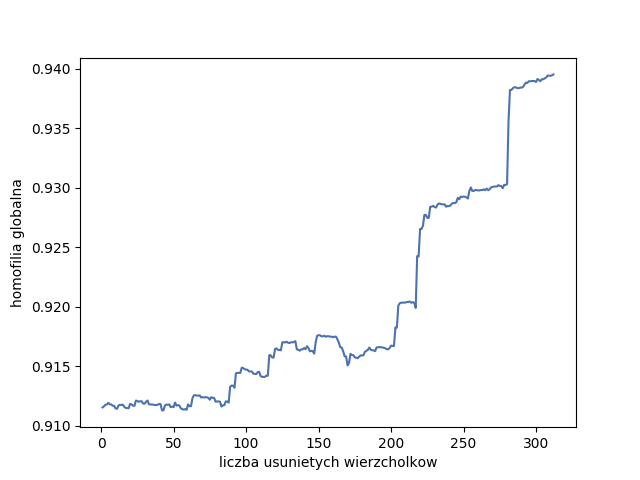
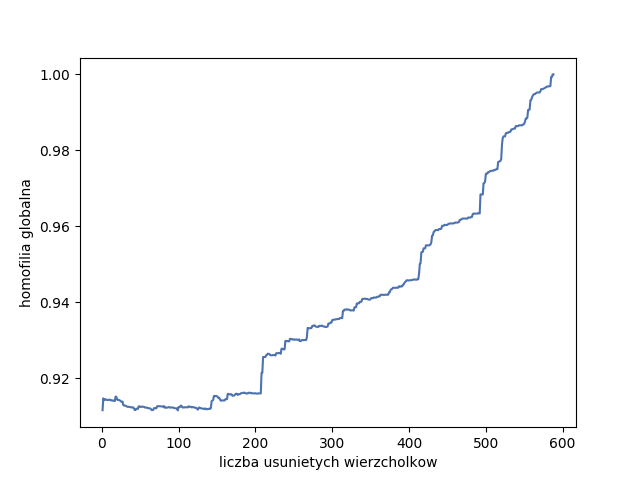
recovering

diff --git a/homophily.py b/homophily.py
@@ -68,36 +68,50 @@ class Homophily:
         utils.plot_local_homophily(homo_list_before, homo_list_after, network_name, 'add_by_ranking')
         utils.plot_global_homophily(self.global_homophilies, network_name, 'add_by_ranking')
 
-    def remove_random(self, count, clas, network_name):
+    def remove_random(self, count, manipulation_clas, clas, network_name):
         self.global_homophilies  = []
+        class_partitions = []
+        nodes_with_manipulation_clas = [node for node in self.G.nodes() if self.get_node_class(node) == manipulation_clas] 
+        class_partitions.append(len(nodes_with_manipulation_clas)/self.size)
         homo_list_before = self.local_homophily()
         nodes_with_clas = [node for node in self.G.nodes() if self.get_node_class(node) == clas]
         utils.save_to_file(homo_list_before, network_name, 'remove_random_homo_list_before')
-        for _ in range(count-1):
+        count = len(nodes_with_clas)
+        for i in range(count):
             random_node = choice(nodes_with_clas)
             try:
                 self.G.remove_node(random_node)
+                nodes_with_clas.remove(random_node)
+                class_partitions.append(len(nodes_with_manipulation_clas)/len(list(self.G.nodes())))
                 self.global_homophily()
+                print i
             except nx.NetworkXError:
                 print 'node does not exist in graph'
-            
+
         homo_list_after = self.local_homophily()
         utils.save_to_file(homo_list_after, network_name, 'remove_random_homo_list_after')
         utils.save_to_file(self.global_homophilies, network_name, 'remove_random_global_homophilies')
         utils.plot_local_homophily(homo_list_before, homo_list_after, network_name, 'remove_random')
         utils.plot_global_homophily(self.global_homophilies, network_name, 'remove_random')
+        utils.plot_all(class_partitions, self.global_homophilies, network_name, 'remove_random')
 
 
-    def remove_with_probability(self, count, clas, network_name):
+    def remove_with_probability(self, count, manipulation_clas, clas, network_name):
         self.global_homophilies  = []
+        class_partitions = []
+        nodes_with_manipulation_clas = [node for node in self.G.nodes() if self.get_node_class(node) == manipulation_clas] 
+        class_partitions.append(len(nodes_with_manipulation_clas)/self.size)
         nodes_with_clas = [node for node in self.G.nodes() if self.get_node_class(node) == clas]
         probabilities = self.get_probabilities(nodes_with_clas)
         homo_list_before = self.local_homophily()
         utils.save_to_file(homo_list_before, network_name, 'remove_with_probability_homo_list_before')
-        for _ in range(count-1):
+        count = len(nodes_with_clas)
+        for _ in range(count):
             node = self.pick_with_probability(nodes_with_clas, probabilities)
             try:
                 self.G.remove_node(node)
+                nodes_with_clas.remove(node)
+                class_partitions.append(len(nodes_with_manipulation_clas)/len(list(self.G.nodes())))
                 self.global_homophily()
             except nx.NetworkXError:
                 print 'node does not exist in graph'          
@@ -106,19 +120,24 @@ class Homophily:
         utils.save_to_file(self.global_homophilies, network_name, 'remove_with_probability_global_homophilies')        
         utils.plot_local_homophily(homo_list_before, homo_list_after, network_name, 'remove_with_probability')
         utils.plot_global_homophily(self.global_homophilies, network_name, 'remove_with_probability')
+        utils.plot_all(class_partitions, self.global_homophilies, network_name, 'remove_with_probability')
 
 
-    def remove_by_ranking(self, count, clas, network_name):
+    def remove_by_ranking(self, manipulation_clas, count, clas, network_name):
         self.global_homophilies  = []
+        class_partitions = []
+        nodes_with_manipulation_clas = [node for node in self.G.nodes() if self.get_node_class(node) == manipulation_clas] 
         sorted_by_degree = sorted(self.G.degree, key=lambda x: x[1], reverse=True)
         nodes_with_clas = [node for node in sorted_by_degree if self.get_node_class(node[0]) == clas]
         homo_list_before = self.local_homophily()
         utils.save_to_file(homo_list_before, network_name, 'remove_by_ranking_homo_list_before')
-        for i in range(len(nodes_with_clas)):
+        count = len(nodes_with_clas)
+        for i in range(count):
             print i
             node = nodes_with_clas[i][0]
             try:
                 self.G.remove_node(node)
+                class_partitions.append(len(nodes_with_manipulation_clas)/len(list(self.G.nodes())))
                 self.global_homophily()
             except nx.NetworkXError:
                 print 'node does not exist in graph'
@@ -127,6 +146,7 @@ class Homophily:
         utils.save_to_file(self.global_homophilies, network_name, 'remove_by_ranking_global_homophilies')   
         utils.plot_local_homophily(homo_list_before, homo_list_after, network_name, 'remove_by_ranking')
         utils.plot_global_homophily(self.global_homophilies, network_name, 'remove_by_ranking')
+        utils.plot_all(class_partitions, self.global_homophilies, network_name, 'remove_by_ranking')
 
     def load_graph(self, filename):
         G = nx.read_gml(filename)

diff --git a/utils.py b/utils.py
@@ -21,13 +21,18 @@ def plot_homophily(homo_list, filename):
 
 
 def plot_global_homophily(global_homophilies, network_name, filename):
+    x_max = len(global_homophilies)
+
     fig, ax = plt.subplots()
     ax.plot(range(1,len(global_homophilies)+1), global_homophilies)
     ax.set_xlabel('liczba usunietych wierzcholkow')
     ax.set_ylabel('homofilia globalna')
+    ax.set_xlim(0, 1)
     plt.savefig('figures/global/{0}/{1}'.format(network_name, filename))
 
 def plot_local_homophily(homo_list_before, homo_list_after, network_name, filename):
+    x_max = len(homo_list_before)
+
     plt.style.use('seaborn-deep')
     bins = np.linspace(0, 1, 10)
     fig, ax = plt.subplots()
@@ -35,13 +40,39 @@ def plot_local_homophily(homo_list_before, homo_list_after, network_name, filena
     ax.hist([homo_list_before, homo_list_after], bins, label=['before', 'after'], density=True)
     ax.set_xlabel('homofilia lokalna')
     ax.set_ylabel('funkcja masy prawdopodobienstwa')
-    for i, v in enumerate(homo_list_before):
-        strVal = str(v)
-        ax.text(v + 3, i + .25,  str(strVal), horizontalalignment='center', verticalalignment='center', transform=ax.transAxes)
+
+    ax.set_xlim(0, 1)
+    # ax.set_ylim(0, 1)
+
+    # for i, v in enumerate(homo_list_before):
+    #     strVal = str(v)
+    #     ax.text(v + 3, i + .25,  str(strVal), horizontalalignment='center', verticalalignment='center', transform=ax.transAxes)
+    
     # plt.hist(homo_list_before, bins, alpha=0.5, label='before')
     # plt.hist(homo_list_after, bins, alpha=0.5, label='after')
     ax.legend(loc='upper left')
     plt.savefig('figures/local/{0}/{1}'.format(network_name, filename))
+
+def plot_all(class_partition, global_homophilies, network_name, filename):
+    x_max = len(class_partition)+1
+
+    fig, ax = plt.subplots()
+    
+    ### - globalna homofilia
+    ax.plot(range(1,len(global_homophilies)+1), global_homophilies)
+
+    ### - udzial klasy  
+    ax.plot(range(1, x_max), class_partition, 'r--', linewidth=3)
+
+    ### - udzial klasy (poczatek, koniec)
+    ax.scatter([0, (x_max)], [class_partition[0], class_partition[len(class_partition)-1]], color='red', marker='o', s=80)
+
+    ax.set_xlim(0, x_max)
+    ax.set_ylim(0, 1)
+
+    # ax.set_xlabel('liczba usunietych wierzcholkow')
+    # ax.set_ylabel('homofilia globalna')
+    plt.savefig('figures/all/{0}/{1}'.format(network_name, filename))
 
 def read_node_list():
     node_dict = {}
@@ -87,6 +118,13 @@ def save_to_file(results, network_name, filename):
 def read_from_file(network_name, filename):
     results = []
     with open('results/{0}/{1}'.format(network_name, filename), "r") as f:
+        for line in f:
+            results.append(float(line.strip()))
+    return results
+
+def read_from_file_path(path):
+    results = []
+    with open(path, "r") as f:
         for line in f:
             results.append(float(line.strip()))
     return results

diff --git a/main.py b/main.py
@@ -1,5 +1,6 @@
 from homophily import Homophily
 import utils
+import consts
 
 ### badania ###
 
@@ -54,9 +55,47 @@ import utils
 
 
 
-# homo_list_before = read_from_file('add_random_homo_list_before')
-# homo_list_after = read_from_file('add_random_homo_list_after')
-# plot(homo_list_before, homo_list_after, 'add_random_homo_with_density')
-global_homophilies = utils.read_from_file('AMD', 'add_random_global_homophilies')
-utils.plot_global_homophily(global_homophilies, 'AMD', 'add_random')
+# homo_list_before = utils.read_from_file('blogs','remove_with_probability_homo_list_before')
+# homo_list_after = utils.read_from_file('blogs', 'remove_with_probability_homo_list_after')
+# utils.plot_local_homophily(homo_list_before, homo_list_after, 'blogs', 'remove_with_probability')
+# global_homophilies = utils.read_from_file('blogs', 'remove_with_probability_global_homophilies')
+# utils.plot_global_homophily(global_homophilies, 'blogs', 'remove_with_probability')
 
+
+
+
+
+
+###### BLOGS ######
+
+# homophily = Homophily('datasets/polblogs.gml')
+
+# print 'start remove_random'
+# homophily.remove_random(homophily.size, 1, 0, 'blogs')
+# print 'stop remove_random'
+
+# print 'start remove_with_probability'
+# homophily.remove_with_probability(homophily.size, 1, 0, 'blogs')
+# print 'stop remove_with_probability'
+
+# print 'start remove_by_ranking'
+# homophily.remove_by_ranking(homophily.size, 1, 0, 'blogs')
+# print 'stop remove_by_ranking'
+
+
+###### AMD ######
+
+homophily = Homophily('datasets/amd_network_class.gml')
+
+print 'start remove_random'
+homophily.remove_random(homophily.size, 'E', 'C', 'AMD')
+print 'stop remove_random'
+
+
+# class_part = utils.read_from_file_path('figures/all/blogs/remove_random_part')
+# global_homo = utils.read_from_file('blogs', 'remove_by_ranking_global_homophilies')
+
+# utils.plot_all(class_part, global_homo, 'blogs', 'remove_by_ranking')
+
+# global_homophilies = utils.read_from_file('blogs', 'remove_with_probability_global_homophilies')
+# utils.plot_global_homophily(global_homophilies, 'blogs', 'remove_with_probability')
